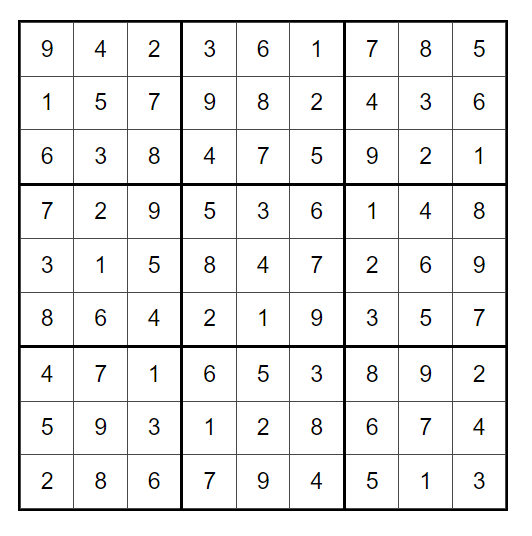
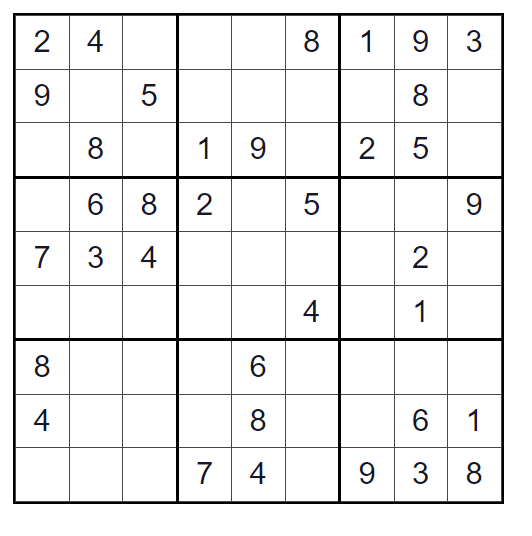
dodane: timer, generowanie planszy o zadanej trudnosci,blokada po wyborze trudnosci na comboxa i podswietlenie liczby po najechaniu kursorem

diff --git a/generate_board.js b/generate_board.js
@@ -1,4 +1,4 @@
-function generate_board(arr) {
+function generateBoard(arr) {
     // tworznie tablicy z liczbami od 1 do 9
     let numbers = [1, 2, 3, 4, 5, 6, 7, 8, 9];
 
@@ -12,9 +12,9 @@ function generate_board(arr) {
                     //tasowanie liczb
                     let number = shuffledNumbers[k];
                     //sprawdzanie czy liczba pasuje do tablicy
-                    if (check_board(arr, i, j, number)) {
+                    if (checkBoard(arr, i, j, number)) {
                         arr[i][j] = number;
-                        if (generate_board(arr)) {
+                        if (generateBoard(arr)) {
                             return true;
                         } else {
                             arr[i][j] = 0;
@@ -42,7 +42,7 @@ function shuffleArray(array) {
 }
 
 
-function check_board(board, row, col, number) {
+function checkBoard(board, row, col, number) {
     // Sprawdzenie wiersza
     for (let i = 0; i < board.length; i++) {
         if (board[row][i] === number) {
@@ -72,9 +72,9 @@ function check_board(board, row, col, number) {
     return true;
 }
 
-function create_board() {
+function createBoard() {
     let board = Array.from({ length: 9 }, () => Array(9).fill(0));
-    generate_board(board);
+    generateBoard(board);
 
     for (let i = 0; i < board.length; i++) {
         let row = '';
@@ -111,17 +111,131 @@ function renderBoard(board) {
     return boardHtml;
 }
 
+let timerInterval;
+let minutes = 0;
+let seconds = 0;
+
+function startTimer() {
+    // Zerowanie minut i sekund
+    minutes = 0;
+    seconds = 0;
+
+    // Aktualizowanie timera co sekundę
+    timerInterval = setInterval(updateTimer, 1000);
+}
+
+function stopTimer() {
+    // Zatrzymanie aktualizacji timera
+    clearInterval(timerInterval);
+}
+
+function updateTimer() {
+    // Inkrementacja sekund
+    seconds++;
+
+    // Inkrementacja minut, gdy osiągnięto 60 sekund
+    if (seconds === 60) {
+        seconds = 0;
+        minutes++;
+    }
+
+    // Aktualizacja wyświetlanego czasu w elemencie z id "timer"
+    document.getElementById("timer").innerHTML = formatTime(minutes, seconds);
+}
+
+function formatTime(minutes, seconds) {
+    // Formatowanie czasu w formacie mm:ss
+    let formattedMinutes = String(minutes).padStart(2, "0");
+    let formattedSeconds = String(seconds).padStart(2, "0");
+    return `${formattedMinutes}:${formattedSeconds}`;
+}
 
 
-function sudoku_board() {
+function createMediumBoard() {
+    let board = createBoard();
+    for (let i = 0; i < board.length; i++) {
+        for (let j = 0; j < board[i].length; j++) {
+            if (Math.random()<0.6) {
+                board[i][j] = 0;
+            }
+        }
+    }
+    return board;
+}
+
+function createHardBoard() {
+    let board = createBoard();
+    for (let i = 0; i < board.length; i++) {
+        for (let j = 0; j < board[i].length; j++) {
+            if (Math.random()<0.7) {
+                board[i][j] = 0;
+            }
+        }
+    }
+    return board;
+}
+
+function createEasyBoard() {
+    let board = createBoard();
+    for (let i = 0; i < board.length; i++) {
+        for (let j = 0; j < board[i].length; j++) {
+            if (Math.random()<0.5) {
+                board[i][j] = 0;
+            }
+        }
+    }
+    return board;
+}
+
+function createEmptyBoard() {
+    let board = createBoard();
+    for (let i = 0; i < board.length; i++) {
+        for (let j = 0; j < board[i].length; j++) {
+            if (Math.random()<1.0) {
+                board[i][j] = 0;
+            }
+        }
+    }
+    return board;
+}
+
+document.addEventListener('DOMContentLoaded', function() {
+    const boardContainer = document.getElementById('board-container');
+    boardContainer.innerHTML = renderBoard(createEmptyBoard());
+});
+
+function sudokuBoard() {
+    const boardContainer = document.getElementById('board-container');
     const selectElement = document.querySelector('.diff-lvl');
     const selectedDifficulty = selectElement.value;
 
     // Logika generowania planszy na podstawie wybranej trudności
-    const board = create_board();
+    let board;
+    if (selectedDifficulty === 'easy') {
+        // Generowanie łatwej planszy
+        board = createEasyBoard();
+    }
+    if (selectedDifficulty === 'medium') {
+        // Generowanie średniej planszy
+        board = createMediumBoard();
+    }
+    if (selectedDifficulty === 'hard') {
+        // Generowanie trudnej planszy
+        board = createHardBoard();
+    }
 
-    // Wyświetlenie planszy wewnątrz kontenera
-    const boardContainer = document.getElementById('board-container');
-
+    // Ustawienie planszy w kontenerze
     boardContainer.innerHTML = renderBoard(board);
+
+    if (board) {
+        // Plansza została wygenerowana
+        startTimer();
+        updateTimer();
+        selectElement.disabled = true; // Zablokowanie comboboxa
+    } else {
+        // Plansza nie została wygenerowana
+        stopTimer();
+        selectElement.disabled = false; // Odblokowanie comboboxa
+    }
 }
+

diff --git a/game.css b/game.css
@@ -1,4 +1,4 @@
-section {
+.section {
     display: flex;
     flex-direction: column;
     justify-content: center;
@@ -7,6 +7,7 @@ section {
     margin-bottom: 50px;
     font-size: 18px;
     color: black;
+    overflow-x: auto; /* Dodajemy obszar przewijania w poziomie */
 }
 
 .difficulty {
@@ -39,6 +40,7 @@ section {
     margin-top: 20px;
     border: 2px solid #000;
     overflow: hidden;
+    white-space: nowrap; /* Zapobiega łamaniu planszy sudoku w pionie */
 }
 
 .sudoku-board tr:not(:last-child):nth-child(3n) td {
@@ -53,7 +55,8 @@ section {
     width: 40px;
     height: 40px;
     text-align: center;
-    font-size: 18px;
+    font-size: 25px;
+    color: #16162a;
     border: 1px solid #484646;
     background-color: #fff;
 }
@@ -63,6 +66,12 @@ section {
 }
 
 .sudoku-board td:hover {
-    background-color: #e2e2e2;
+    background-color: #a9d2da;
+    transition: background-color 0.3s ease;
 }
 
+.timer-container{
+    display: inline-block;
+    margin-left: 245px;
+    font-size: 18px;
+}

diff --git a/game.html b/game.html
@@ -17,15 +17,16 @@
 <hr>
 <br>
 <section>
-    <h3>Choice difficulty level</h3>
+    <h3>Choose difficulty level</h3>
     <label class="difficulty">
-        <select class="diff-lvl" onchange="sudoku_board()">
-            <option value="none">difficulty</option>
+        <select class="diff-lvl" onchange="sudokuBoard(this)">
+            <option value="none">select</option>
             <option value="easy">easy</option>
             <option value="medium">medium</option>
             <option value="hard">hard</option>
         </select>
     </label>
+    <div class="timer-container" onchange="startTimer()"><span id="timer">00:00</span></div>
     <br>
     <div id="board-container"></div>
 </section>
